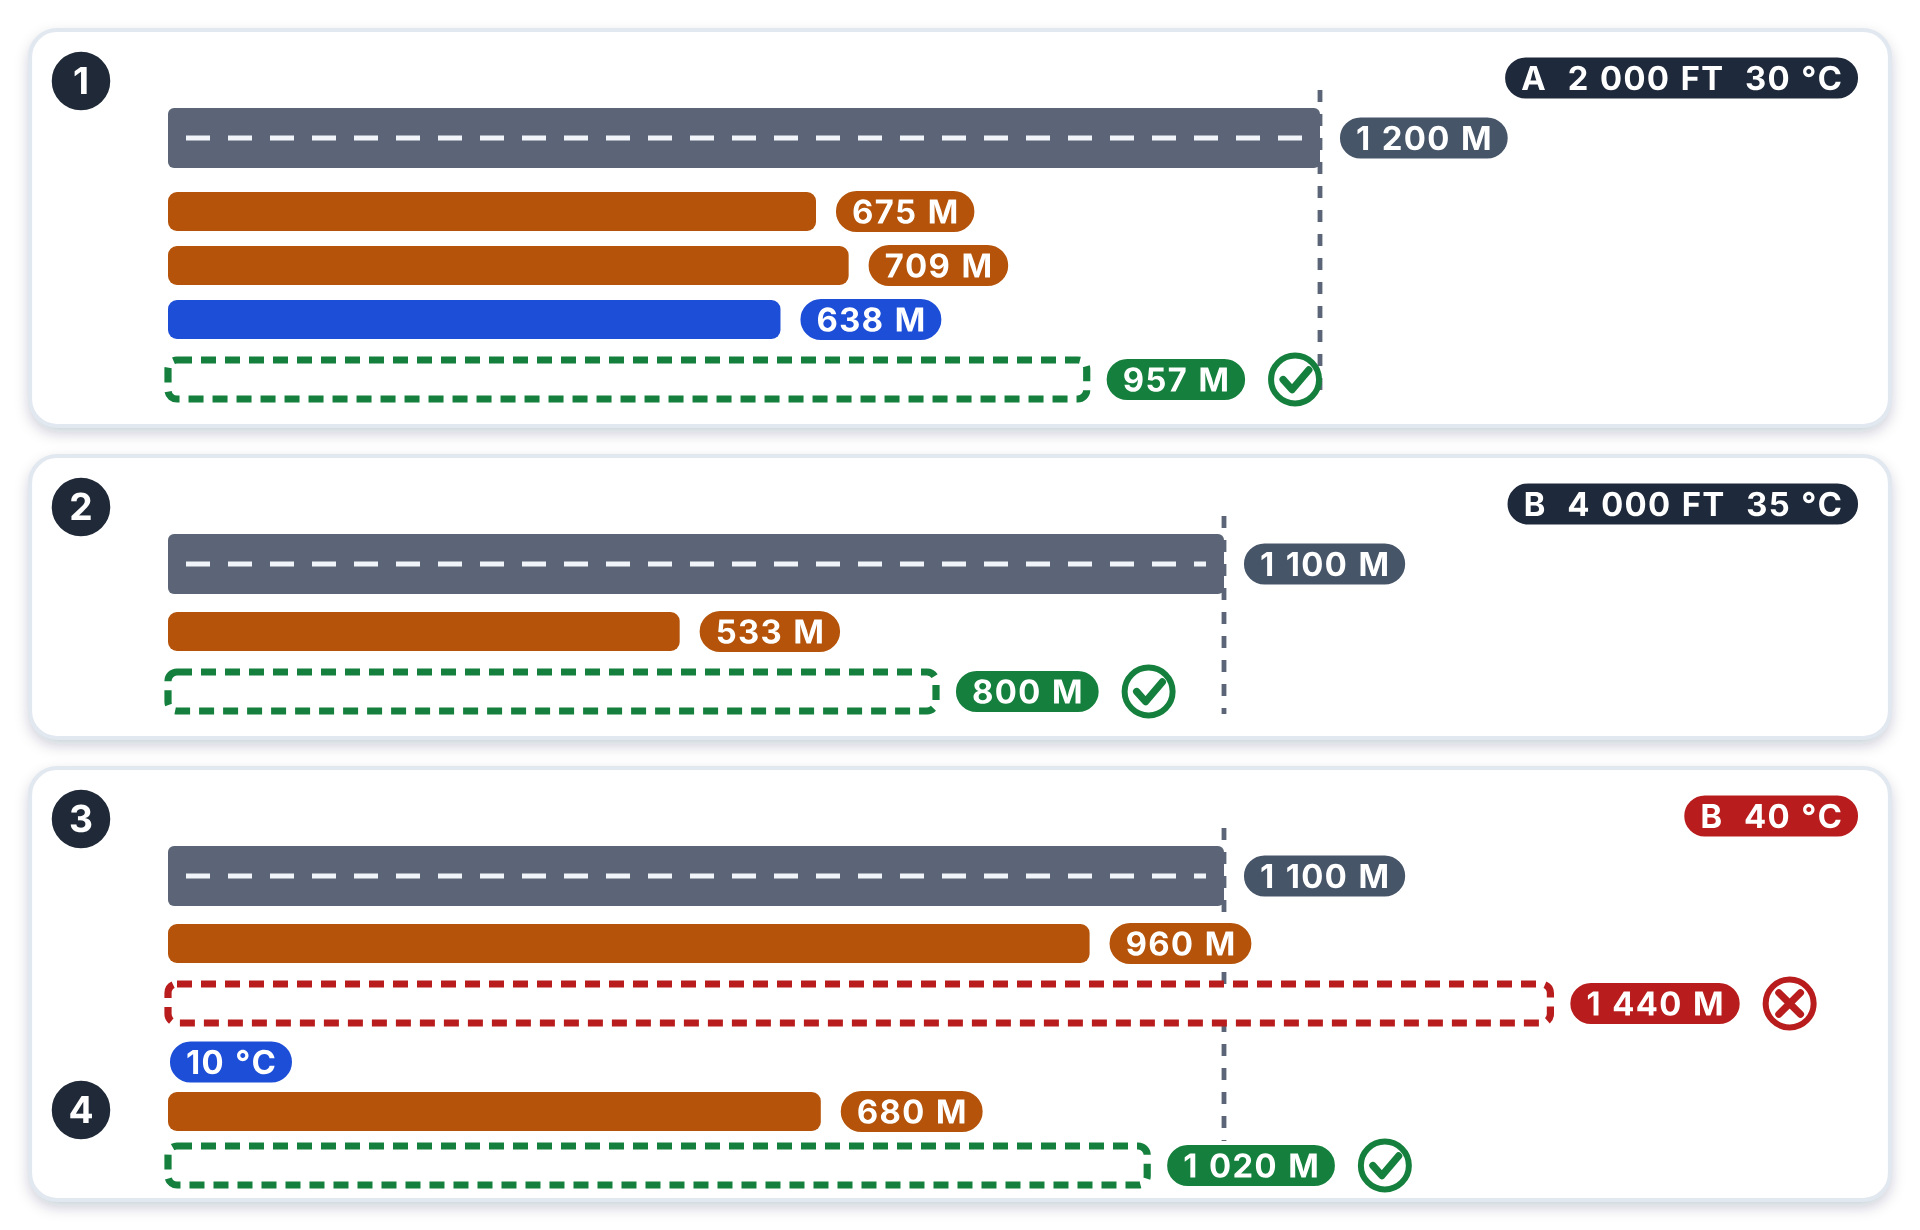
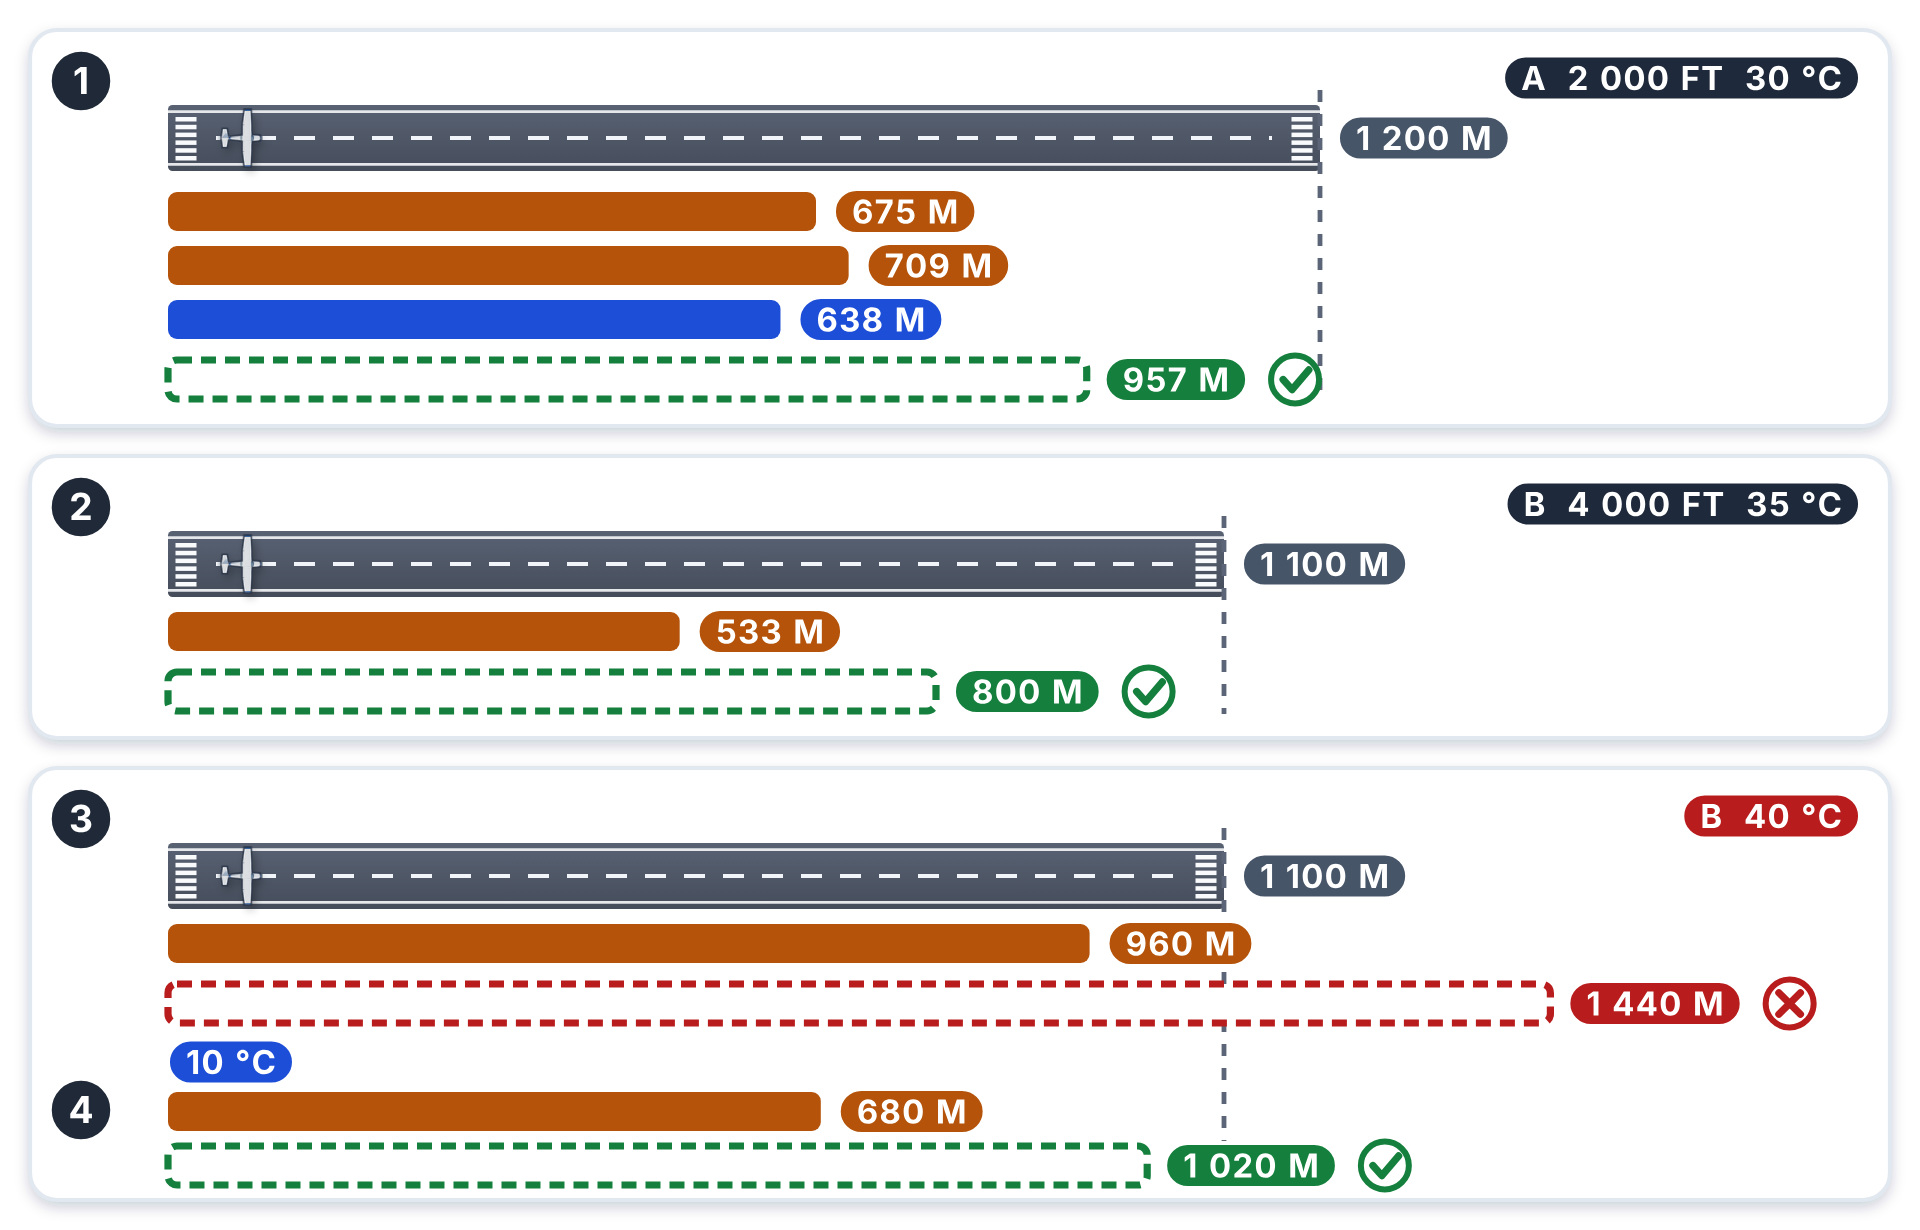
Handbook plates: upgrade round 42 also gives Figures 13-2 and 11-4 real runways with the model at the threshold
The grey runway bars become runways seen from above to the same scale (asphalt, edge lines, threshold stripes, centre line) with the model's aeroplane lined up on each.
Numbers and legends unchanged. Editorial draft.

Claude-Session: https://claude.ai/code/session_01GaKzbGvzg6oJZTLUkbk9TR

Changed region(s): [[0.0938, 0.0618, 0.6875, 0.1545], [0.0938, 0.6797, 0.6562, 0.7415], [0.0938, 0.4325, 0.6562, 0.4943]]

diff --git a/09_book_figures/handbook/figs/f_13_02_trip_distances.py b/09_book_figures/handbook/figs/f_13_02_trip_distances.py
@@ -13,6 +13,10 @@ INK, BLUE, GREEN, AMBER, RED, SLATE = "#1E293B", "#1D4ED8", "#15803D", "#B45309"
 X0, PXM = 56.0, 0.32                                        # metres to pixels
 
 
+RWYS = []
+SPRITE_LOOK = {"outline": {"width": 0.4, "colour": "#2B3648", "opacity": 0.85}, "shadow": {"dx": 1.0, "dy": 1.8, "blur": 1.4, "opacity": 0.35}}
+
+
 def gwidth(s, height, spacing=0.4):
     g = H._GLYPHS
     k = height / g["cap_height"]
@@ -35,9 +39,19 @@ def card(uid, x, y, w, h):
 
 
 def runway(y, m, label, span=100):
+    """A runway seen from above, to the scale of the bars: asphalt, edge lines, threshold stripes at both ends and a dashed centre line; the aeroplane
+    of the model stands lined up on the threshold (a sprite, see layers)."""
     w = m * PXM
-    return (f'<rect x="{n(X0)}" y="{n(y)}" width="{n(w)}" height="20" rx="2" fill="#5B6577"/><line x1="{n(X0 + 6)}" y1="{n(y + 10)}" x2="{n(X0 + w - 6)}" y2="{n(y + 10)}" stroke="#F1F5F9" stroke-width="1.6" stroke-dasharray="8 6"/>'
-            f'<line x1="{n(X0 + w)}" y1="{n(y - 6)}" x2="{n(X0 + w)}" y2="{n(y + span)}" stroke="#5B6577" stroke-width="1.6" stroke-dasharray="4 4"/>' + pill(X0 + w + 6, y + 10, label, SLATE, anchor="start"))
+    h = 22.0
+    RWYS.append((X0, y, w, h))
+    out = (f'<defs><linearGradient id="{U}rw{len(RWYS)}" x1="0" y1="0" x2="0" y2="1"><stop offset="0" stop-color="#596273"/><stop offset="1" stop-color="#454D5B"/></linearGradient></defs>'
+           f'<rect x="{n(X0)}" y="{n(y - 1)}" width="{n(w)}" height="{n(h)}" rx="1.5" fill="url(#{U}rw{len(RWYS)})"/>'
+           f'<line x1="{n(X0)}" y1="{n(y + 1.2)}" x2="{n(X0 + w)}" y2="{n(y + 1.2)}" stroke="#E5E7EB" stroke-width="0.9"/><line x1="{n(X0)}" y1="{n(y + h - 3.2)}" x2="{n(X0 + w)}" y2="{n(y + h - 3.2)}" stroke="#E5E7EB" stroke-width="0.9"/>')
+    for x in (X0 + 2.5, X0 + w - 9.5):                       # threshold stripes
+        out += "".join(f'<rect x="{n(x)}" y="{n(y + 3 + k * 2.6)}" width="7" height="1.5" fill="#F8FAFC"/>' for k in range(6))
+    out += f'<line x1="{n(X0 + 16)}" y1="{n(y + h / 2 - 1)}" x2="{n(X0 + w - 16)}" y2="{n(y + h / 2 - 1)}" stroke="#F1F5F9" stroke-width="1.4" stroke-dasharray="7 6"/>'
+    out += f'<line x1="{n(X0 + w)}" y1="{n(y - 6)}" x2="{n(X0 + w)}" y2="{n(y + span)}" stroke="#5B6577" stroke-width="1.6" stroke-dasharray="4 4"/>' + pill(X0 + w + 6, y + 10, label, SLATE, anchor="start")
+    return out
 
 
 def bar(y, m, col, label, outline=False, mark=None):
@@ -85,7 +99,10 @@ def callouts():
 
 
 def layers():
-    return [H.defs(U, W, HT), f'<rect x="0" y="0" width="{W}" height="{HT}" fill="#ffffff"/>', leg_a(), leg_b(), leg_back(), callouts()]
+    RWYS.clear()
+    out = [H.defs(U, W, HT), f'<rect x="0" y="0" width="{W}" height="{HT}" fill="#ffffff"/>', leg_a(), leg_b(), leg_back(), callouts()]
+    planes = [{"name": "sprite-top", "at": [x + 24, y + h / 2 - 1], "width": 19, "angle": 90.0, **SPRITE_LOOK} for x, y, w, h in RWYS]
+    return out[:-1] + planes + out[-1:]
 
 
 def plate():

diff --git a/09_book_figures/handbook/figs/f_11_04_worked_examples.py b/09_book_figures/handbook/figs/f_11_04_worked_examples.py
@@ -15,6 +15,10 @@ SHADOW = {"dx": 1.4, "dy": 2.6, "blur": 2.0, "opacity": 0.26}
 OUT = {"width": 0.5, "colour": "#2B3648", "opacity": 0.85}
 
 
+RWYS = []
+SPRITE_LOOK = {"outline": {"width": 0.4, "colour": "#2B3648", "opacity": 0.85}, "shadow": {"dx": 1.0, "dy": 1.8, "blur": 1.4, "opacity": 0.35}}
+
+
 def gwidth(s, height, spacing=0.4):
     g = H._GLYPHS
     k = height / g["cap_height"]
@@ -37,9 +41,19 @@ def card(uid, x, y, w, h):
 
 
 def runway(y, m, label):
+    """A runway seen from above, to the scale of the bars: asphalt, edge lines, threshold stripes at both ends and a dashed centre line; the aeroplane
+    of the model stands lined up on the threshold (a sprite, see layers)."""
     w = m * PXM
-    return (f'<rect x="{n(X0)}" y="{n(y)}" width="{n(w)}" height="20" rx="2" fill="#5B6577"/><line x1="{n(X0 + 6)}" y1="{n(y + 10)}" x2="{n(X0 + w - 6)}" y2="{n(y + 10)}" stroke="#F1F5F9" stroke-width="1.6" stroke-dasharray="8 6"/>'
-            f'<line x1="{n(X0 + w)}" y1="{n(y - 6)}" x2="{n(X0 + w)}" y2="{n(y + 118)}" stroke="#5B6577" stroke-width="1.6" stroke-dasharray="4 4"/>' + pill(X0 + w + 6, y + 10, label, SLATE, anchor="start"))
+    h = 22.0
+    RWYS.append((X0, y, w, h))
+    out = (f'<defs><linearGradient id="{U}rw{len(RWYS)}" x1="0" y1="0" x2="0" y2="1"><stop offset="0" stop-color="#596273"/><stop offset="1" stop-color="#454D5B"/></linearGradient></defs>'
+           f'<rect x="{n(X0)}" y="{n(y - 1)}" width="{n(w)}" height="{n(h)}" rx="1.5" fill="url(#{U}rw{len(RWYS)})"/>'
+           f'<line x1="{n(X0)}" y1="{n(y + 1.2)}" x2="{n(X0 + w)}" y2="{n(y + 1.2)}" stroke="#E5E7EB" stroke-width="0.9"/><line x1="{n(X0)}" y1="{n(y + h - 3.2)}" x2="{n(X0 + w)}" y2="{n(y + h - 3.2)}" stroke="#E5E7EB" stroke-width="0.9"/>')
+    for x in (X0 + 2.5, X0 + w - 9.5):                       # threshold stripes
+        out += "".join(f'<rect x="{n(x)}" y="{n(y + 3 + k * 2.6)}" width="7" height="1.5" fill="#F8FAFC"/>' for k in range(6))
+    out += f'<line x1="{n(X0 + 16)}" y1="{n(y + h / 2 - 1)}" x2="{n(X0 + w - 16)}" y2="{n(y + h / 2 - 1)}" stroke="#F1F5F9" stroke-width="1.4" stroke-dasharray="7 6"/>'
+    out += f'<line x1="{n(X0 + w)}" y1="{n(y - 6)}" x2="{n(X0 + w)}" y2="{n(y + 118)}" stroke="#5B6577" stroke-width="1.6" stroke-dasharray="4 4"/>' + pill(X0 + w + 6, y + 10, label, SLATE, anchor="start")
+    return out
 
 
 def bar(y, m, col, label, outline=False, mark=None):
@@ -89,7 +103,10 @@ def callouts():
 
 
 def layers():
-    return [H.defs(U, W, HT), f'<rect x="0" y="0" width="{W}" height="{HT}" fill="#ffffff"/>', example1(), example2(), climb(), callouts()]
+    RWYS.clear()
+    out = [H.defs(U, W, HT), f'<rect x="0" y="0" width="{W}" height="{HT}" fill="#ffffff"/>', example1(), example2(), climb(), callouts()]
+    planes = [{"name": "sprite-top", "at": [x + 24, y + h / 2 - 1], "width": 19, "angle": 90.0, **SPRITE_LOOK} for x, y, w, h in RWYS]
+    return out[:-1] + planes + out[-1:]
 
 
 def plate():
